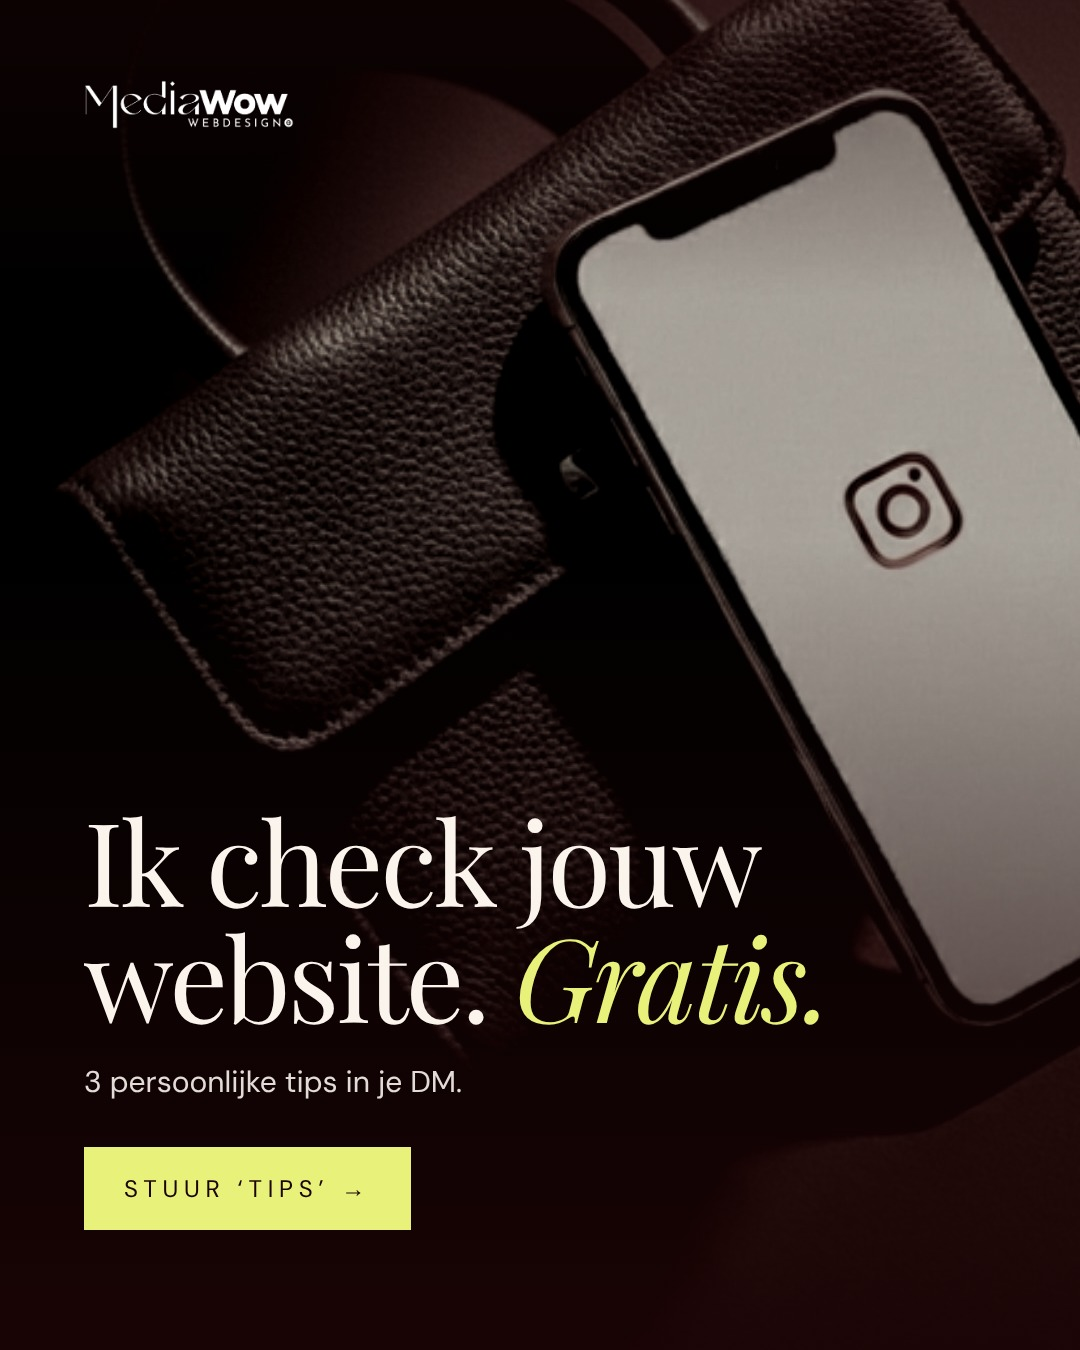
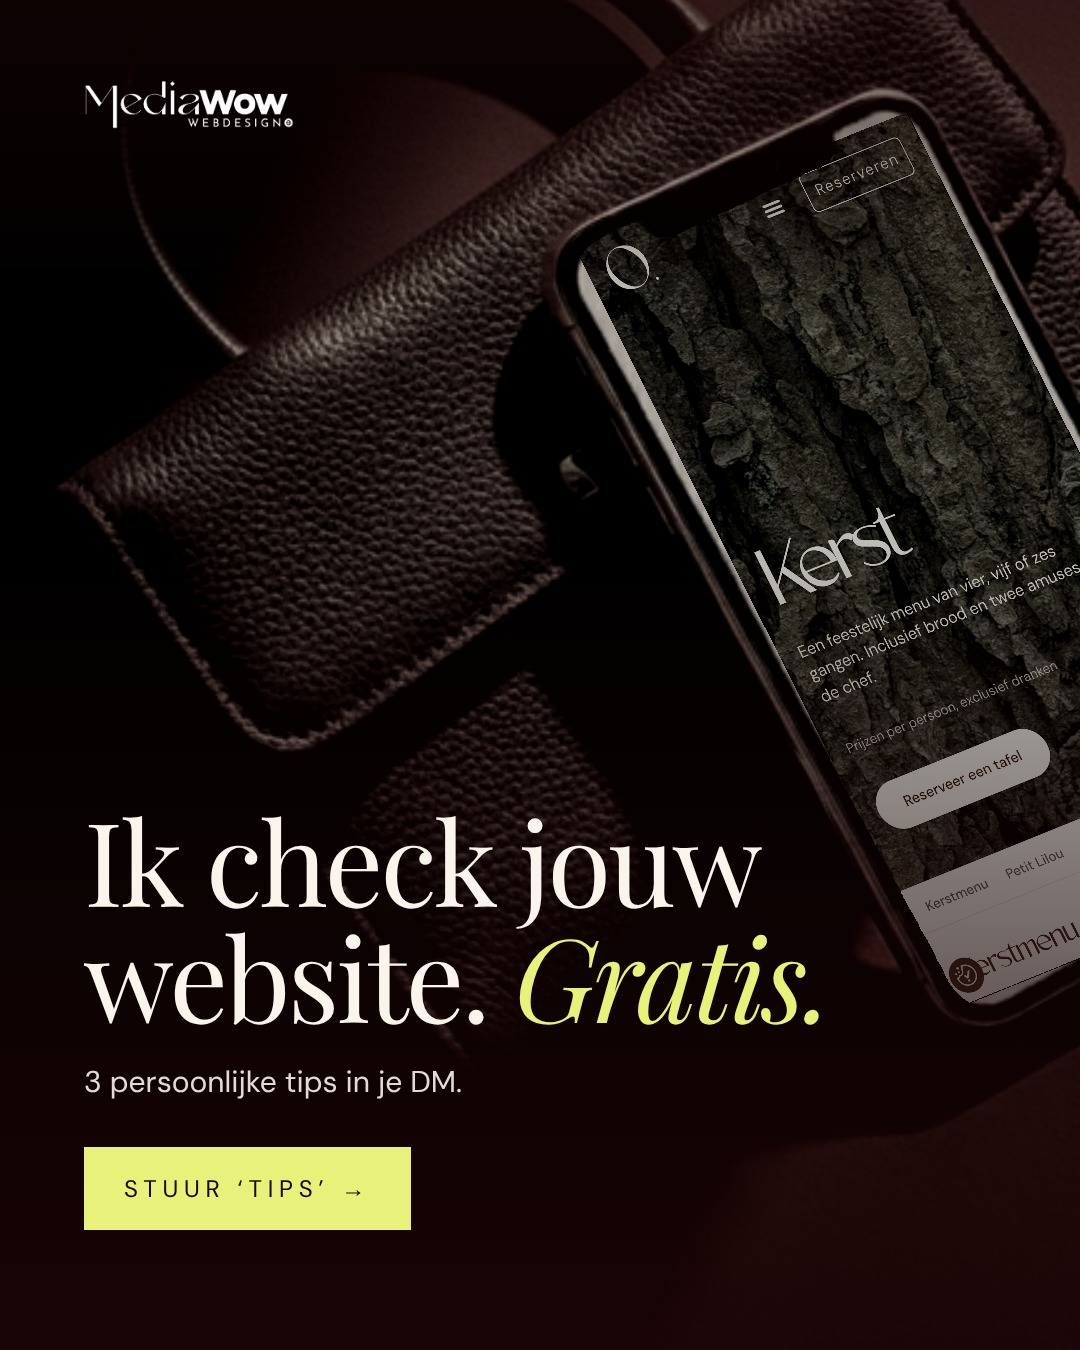
Telefoonscherm toont nu een website (Lilou) i.p.v. Instagram-icoon
Claude-Session: https://claude.ai/code/session_01RBQ5c9Pv2G8CobvSf5vDwJ

Changed region(s): [[0.5194, 0.0622, 1.0, 0.6844], [0.8556, 0.6844, 1.0, 0.7467]]

diff --git a/instagram/ads/make.js b/instagram/ads/make.js
@@ -15,7 +15,7 @@ h1 em{font-style:italic}
 const ads = {
   // 1 · bordeaux-foto, tas met telefoon
   'ad1-website-check': (w, h) => `<div class="s" style="background:#1B0405;color:#FAF4ED">
-    <img class="ph" src="${img('bordeaux/tas-telefoon.jpg')}" style="object-position:50% 40%;filter:saturate(.32) sepia(.18) brightness(.72) contrast(1.1)">
+    <img class="ph" src="${img('bordeaux/tas-telefoon-site.jpg')}" style="object-position:50% 40%;filter:saturate(.32) sepia(.18) brightness(.72) contrast(1.1)">
     <div style="position:absolute;inset:0;background:linear-gradient(180deg,rgba(27,4,5,.5) 0%,rgba(27,4,5,0) 22%,rgba(27,4,5,0) 40%,rgba(27,4,5,.92) 100%)"></div>
     <img class="logo" src="${LOGO_W}">
     <div style="position:absolute;left:84px;right:84px;bottom:${h > 1500 ? 330 : 120}px">

diff --git a/instagram/slides.js b/instagram/slides.js
@@ -9,7 +9,7 @@ module.exports = [
     id: '1-ma-website-check',
     slides: [
       { theme: 'photo', cls: 'mwc', html: `
-        <img class="bg-photo" src="{{img:bordeaux/tas-telefoon.jpg}}" style="object-position:50% 40%"><div class="bg-fade"></div>
+        <img class="bg-photo" src="{{img:bordeaux/tas-telefoon-site.jpg}}" style="object-position:50% 40%"><div class="bg-fade"></div>
         <div class="mw-ttl"><h1>Ik check jouw website. <em>Gratis.</em></h1></div>` },
       { theme: 'dark', html: `
         <div class="kicker">01 — Waarom</div>
